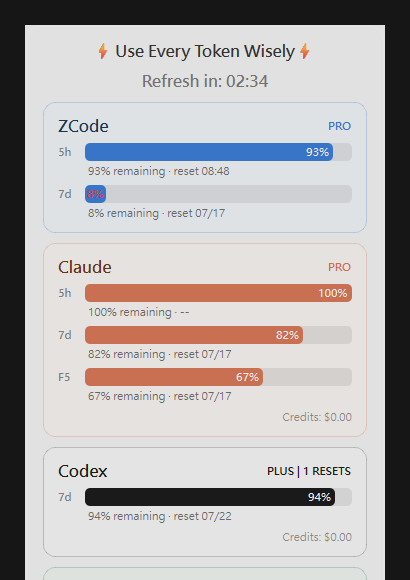
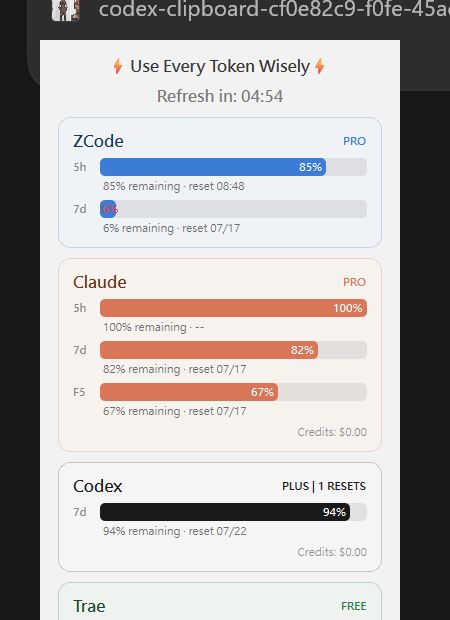
Fix black border: make container widget transparent + update screenshot
The QMainWindow's central widget had a default opaque background that
showed as a dark rectangle behind the FrostedFrame outline. Added
background: transparent stylesheet to the container widget.

Changed region(s): [[0.0585, 0.0, 1.0, 1.0], [0.1463, 0.9621, 0.2341, 0.9931]]

diff --git a/ui/main_window.py b/ui/main_window.py
@@ -261,6 +261,10 @@ class MainWindow(QMainWindow):
             card.collapseChanged.connect(self._refit)
 
         container = QWidget()
+        # Make the container transparent so only the FrostedFrame outline
+        # is visible — without this, QMainWindow fills its rect with the
+        # default widget background (dark on some Windows themes).
+        container.setStyleSheet("background: transparent;")
         if IS_MAC:
             container.setAttribute(Qt.WidgetAttribute.WA_TranslucentBackground, True)
         cl = QVBoxLayout(container)